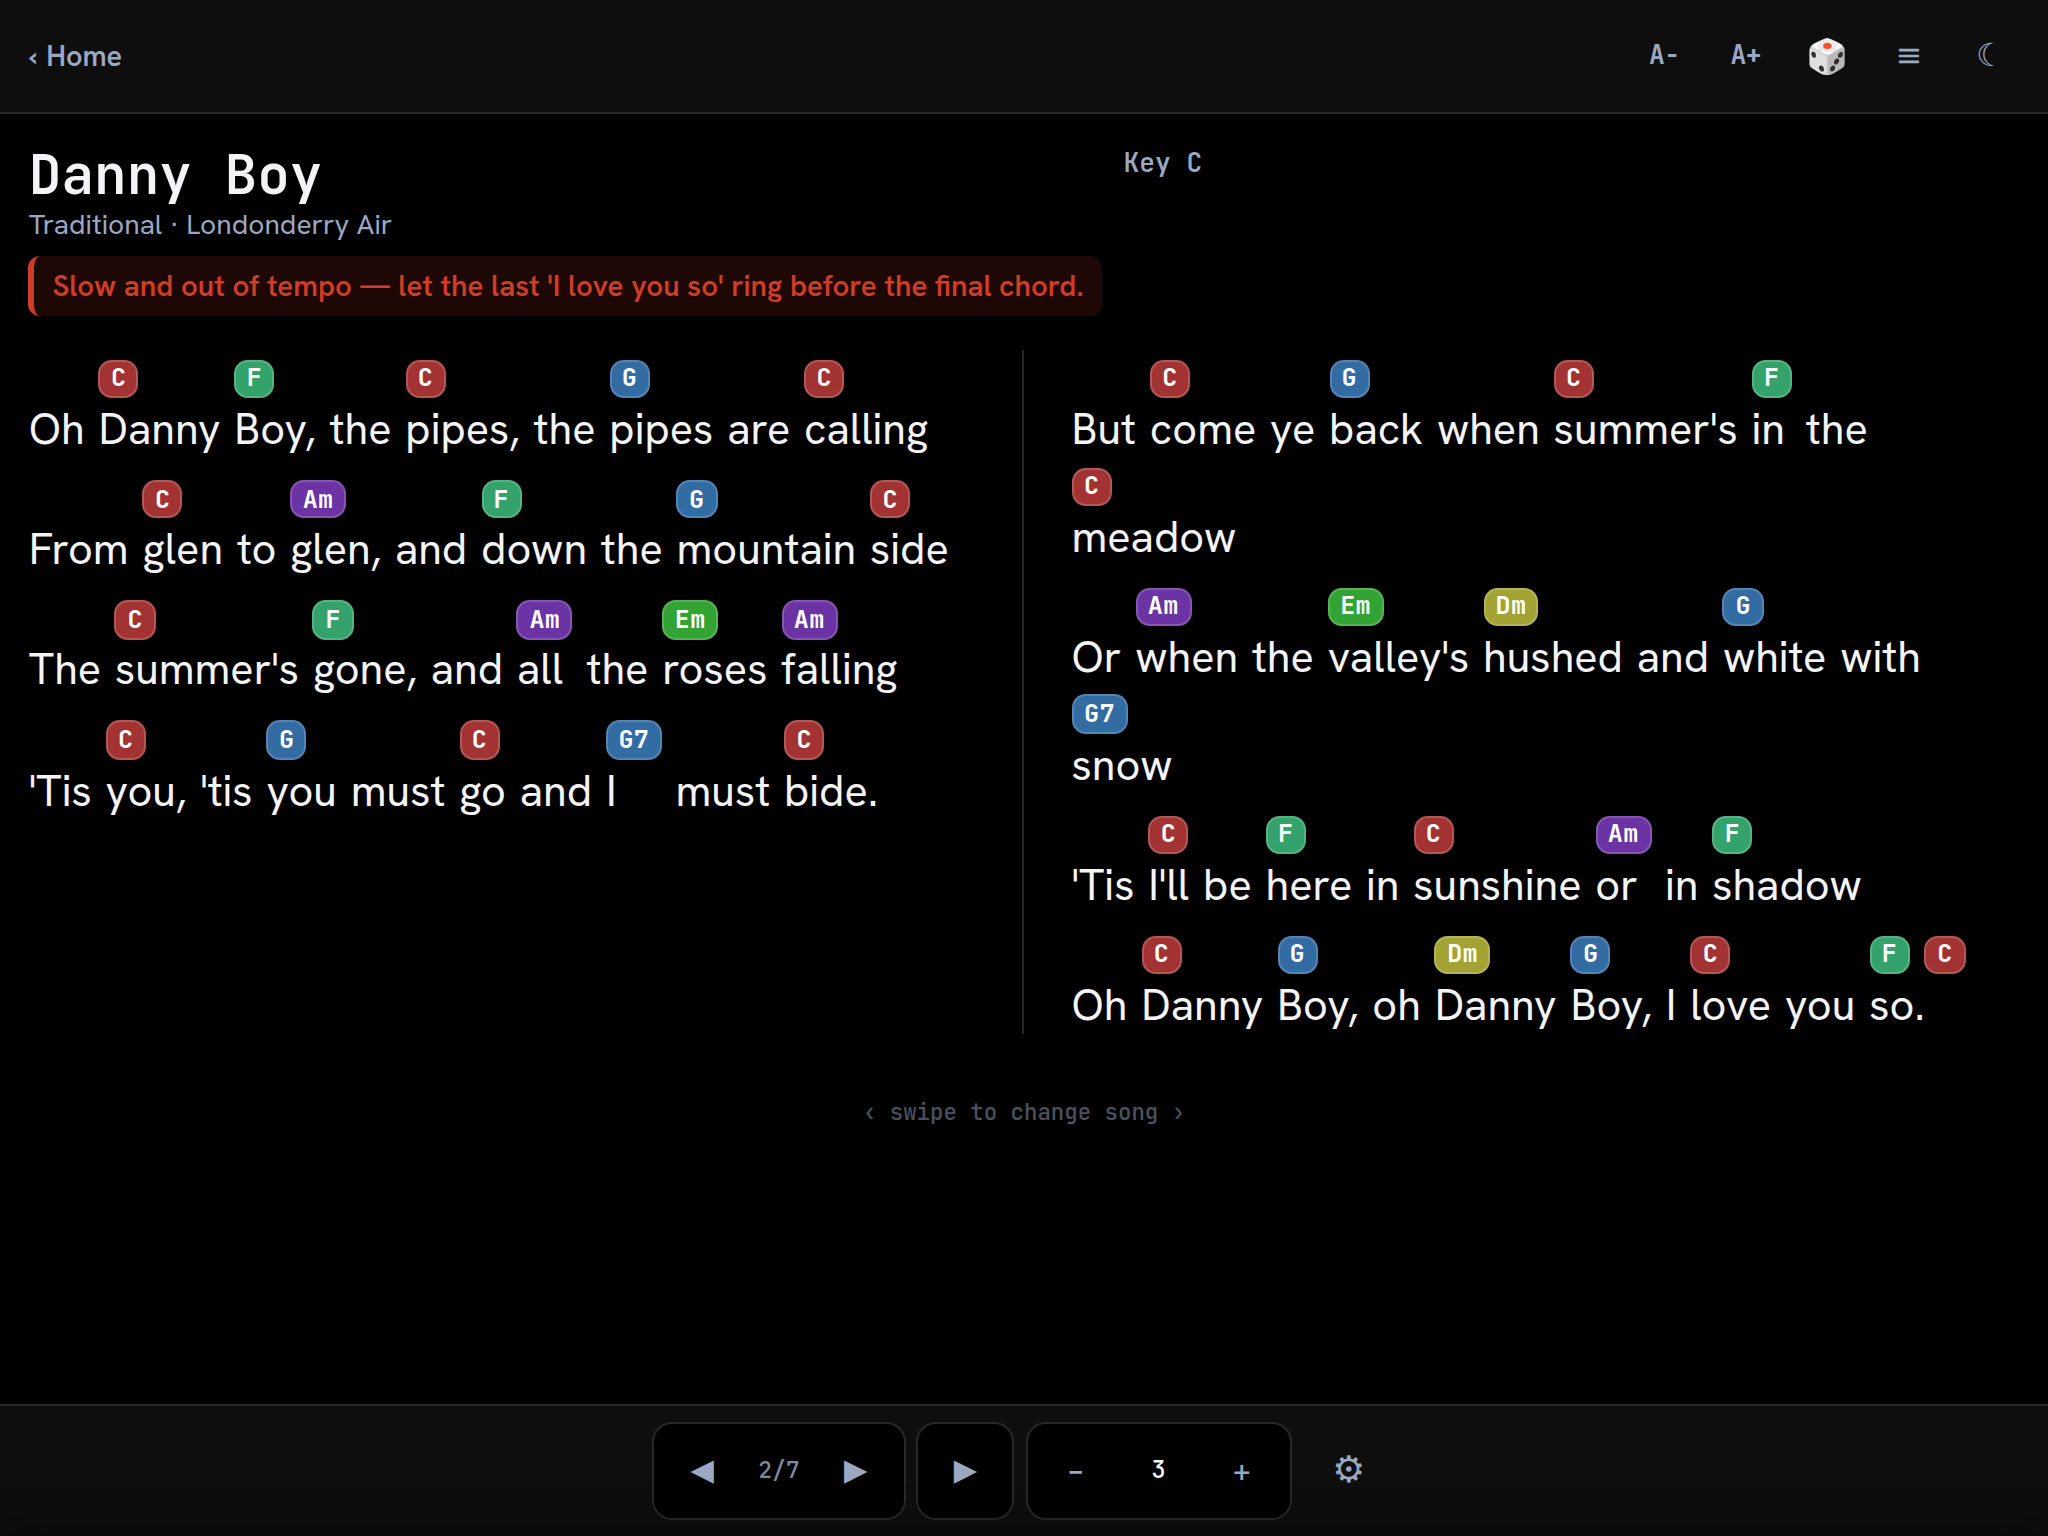
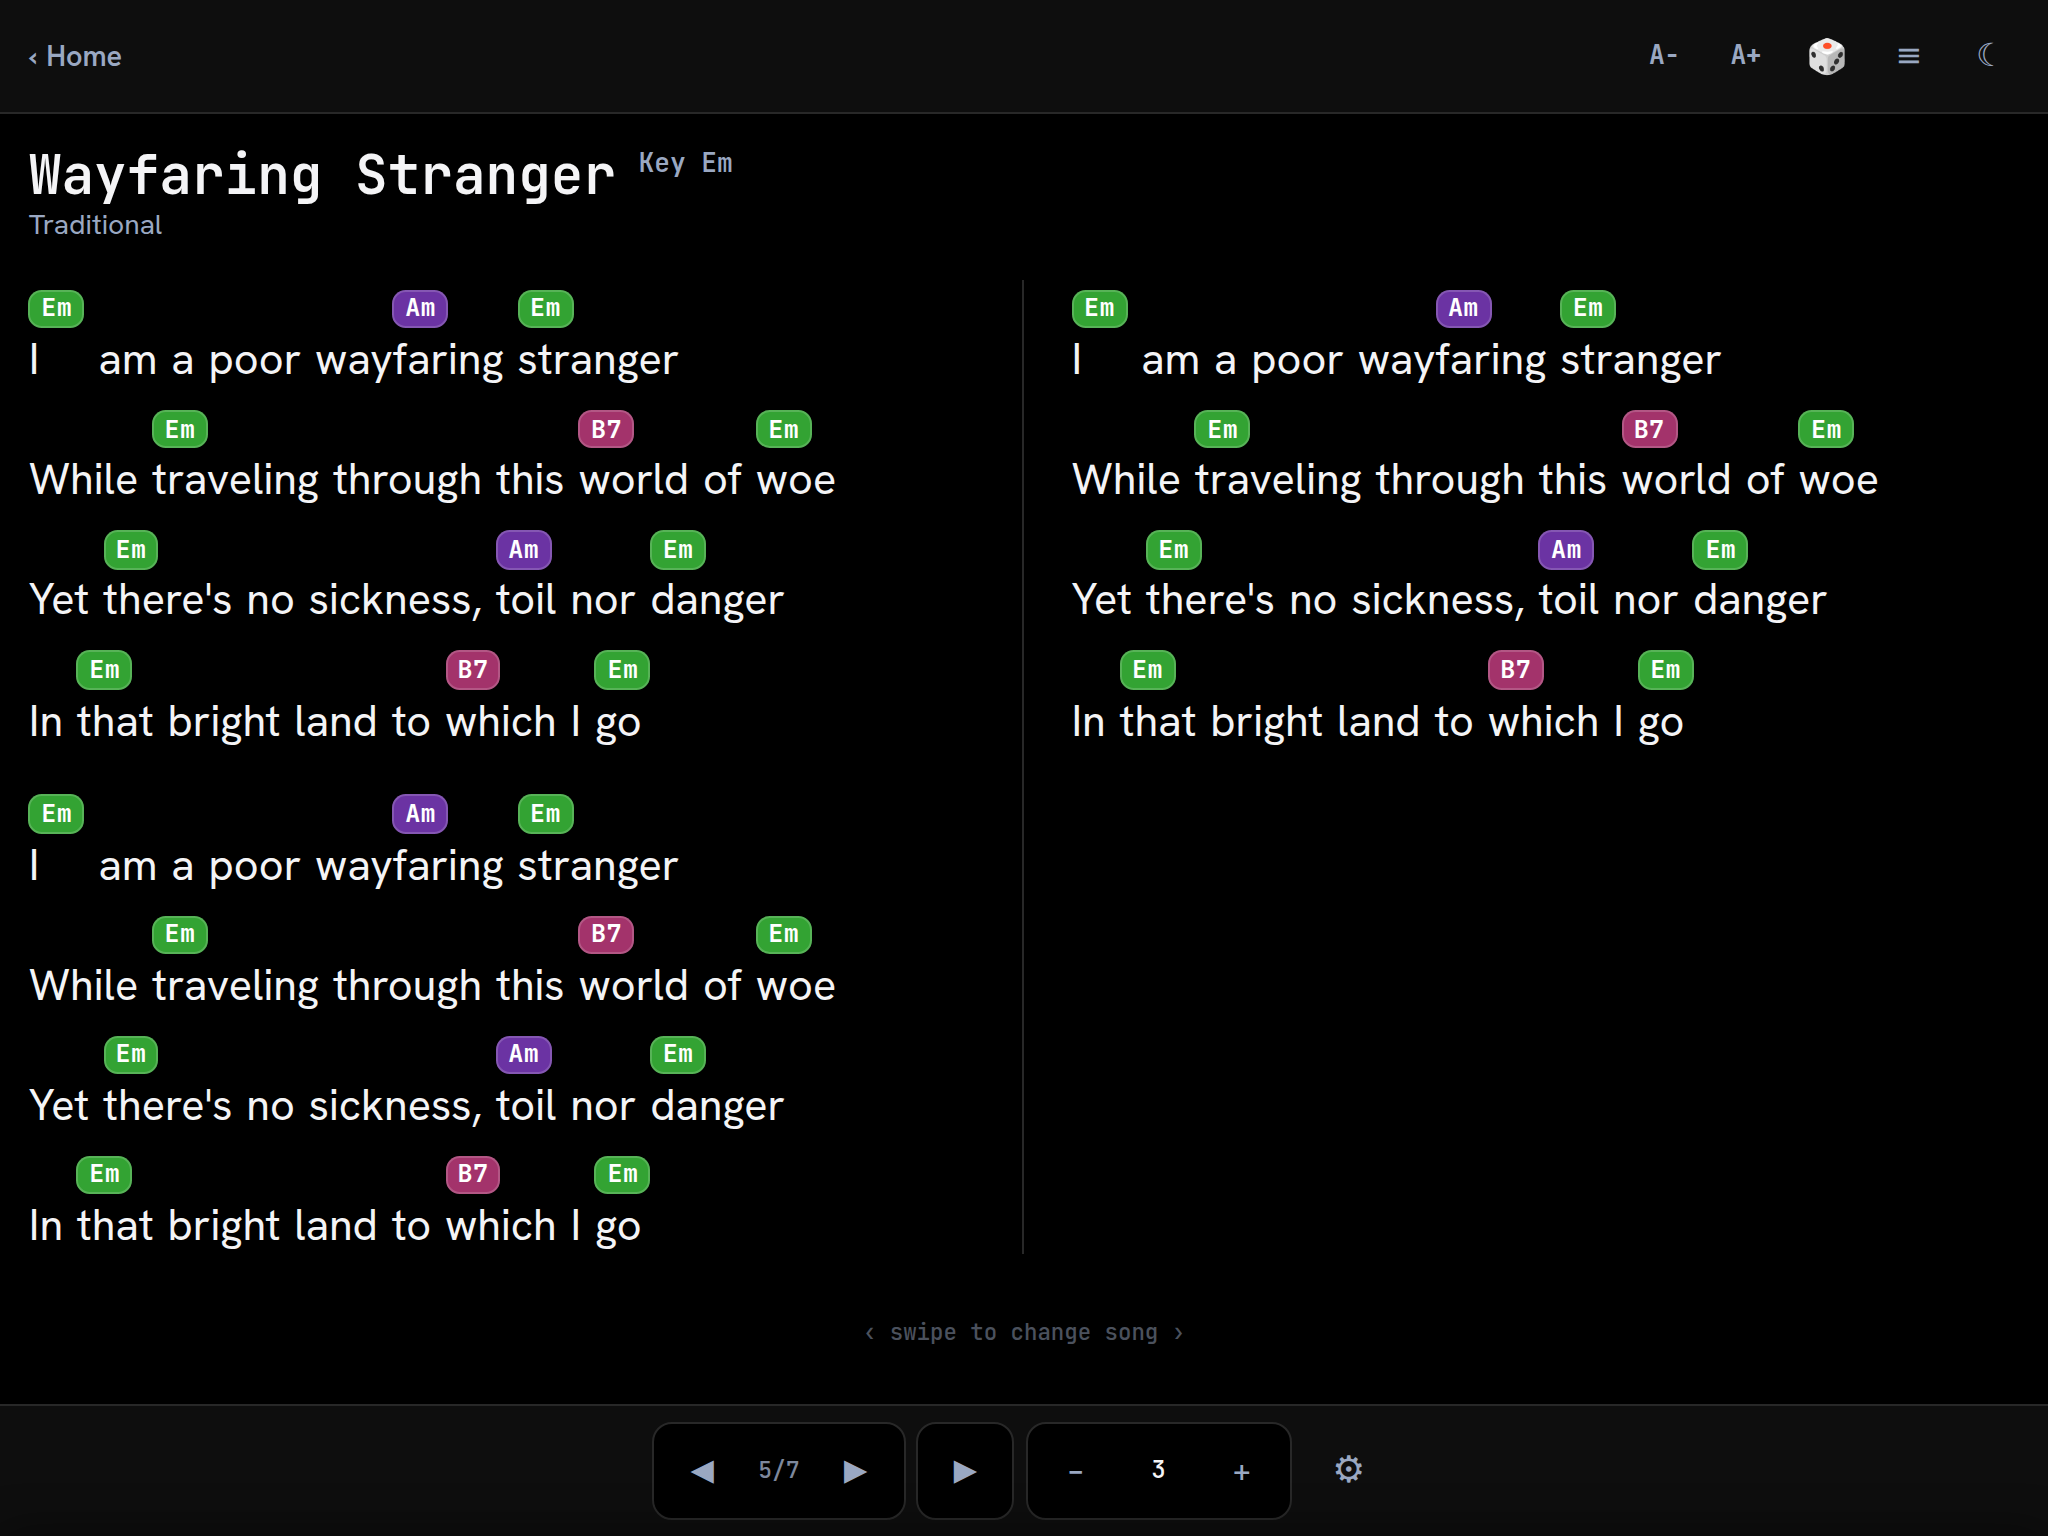
v2026.08.26.001 — retire the Danny Boy showcase song
Owner asked three times for it gone; the app carries their real catalogue
now, so the demo song is training wheels the project has outgrown.

addShowcaseSong() is replaced by a one-time retireShowcase(), which removes
the seeded song and the "★ Showcase" set from EXISTING libraries rather than
only stopping new installs from getting them — otherwise it would sit on the
owner's device forever. It keys on the reserved seed ids only, scrubs any
dangling songIds out of other setlists, and is guarded by
state.showcaseRetired so it runs once. Owner-created content is untouched,
and a backup file restores the song if it is ever wanted back.

Knock-on the seed removal caused: both capture scripts depended on that song
being the longest in the library. docs/hero-gif.js threw outright ("only 0px
of scroll runway") and docs/shots.js would have shot its two-column frame
against a song too short to fill two columns. Both now build their own tall
fixture by repeating a seed song's verses in page memory — capture-only,
never persisted, never shipped.

Verified: song and set gone, no dangling references in any setlist, the
retirement flag set, the six real seed songs and both real setlists
untouched; screenshots and hero GIF regenerate cleanly; syntax, duplicate-id
and brand==CACHE checks pass.

Claude-Session: https://claude.ai/code/session_01RFni8j63y7ynwzmNLMPMTB

diff --git a/setlist69.html b/setlist69.html
@@ -548,7 +548,7 @@
 <div class="app">
   <header>
     <button class="back" id="backBtn" style="display:none" aria-label="Back">‹ <span id="backLabel">Back</span></button>
-    <div class="brand" id="brand"><span class="dot"></span>SetList69<small>v2026.08.21.004</small></div>
+    <div class="brand" id="brand"><span class="dot"></span>SetList69<small>v2026.08.26.001</small></div>
     <div class="htitle" id="headerTitle" style="display:none"></div>
     <div class="spacer"></div>
     <button class="iconbtn" id="updateHdr" title="Update ready" aria-label="Update ready — refresh" hidden>⟳</button>
@@ -2085,22 +2085,17 @@ function migrateBanter(){
   if(dbb)for(const id of dbb.songIds){const so=state.songs.find(x=>x.id===id);if(so&&so.sub&&!so.banter){so.banter=so.sub;so.sub="";n++;}}
   state.bantersMigrated=true;return n;
 }
-/* One-time, idempotent: seed a perfectly-formatted public-domain showcase song ("Danny Boy" —
-   Frederic Weatherly's 1913 lyrics + the traditional Londonderry Air, both public domain) into the
-   library, plus a tiny "★ Showcase" set to find it. Guarded by state.showcaseAdded; reaches existing
-   libraries as well as fresh installs. Deleting the song/set sticks (the flag stops it re-adding). */
-function addShowcaseSong(){
-  if(state.showcaseAdded)return false;
-  const add=!state.songs.some(s=>s.id==="danny");
-  if(add){
-    state.songs.push({id:"danny",title:"Danny Boy",sub:"Traditional · Londonderry Air",
-      banter:"Slow and out of tempo — let the last 'I love you so' ring before the final chord.",
-      key:"C",capo:0,
-      body:"Oh [C]Danny [F]Boy, the [C]pipes, the [G]pipes are [C]calling\nFrom [C]glen to [Am]glen, and [F]down the [G]mountain [C]side\nThe [C]summer's [F]gone, and [Am]all the [Em]roses [Am]falling\n'Tis [C]you, 'tis [G]you must [C]go and [G7]I must [C]bide.\n\nBut [C]come ye [G]back when [C]summer's [F]in the [C]meadow\nOr [Am]when the [Em]valley's [Dm]hushed and [G]white with [G7]snow\n'Tis [C]I'll be [F]here in [C]sunshine [Am]or in [F]shadow\nOh [C]Danny [G]Boy, oh [Dm]Danny [G]Boy, I [C]love you [F]so.[C]"});
-    if(!state.setlists.some(sl=>sl.id==="showcase"))
-      state.setlists.push({id:"showcase",name:"★ Showcase",notes:"A perfectly formatted public-domain classic — tap a chord for its shape, or hit 123 for Nashville numbers.",setTranspose:0,songIds:["danny"]});
-  }
-  state.showcaseAdded=true;return add;
+/* One-time: retire the seeded "Danny Boy" showcase song and its "★ Showcase" set (owner asked for
+   it gone — the app has their real catalogue in it now). Only touches the reserved seed id, runs
+   once via state.showcaseRetired, and anything the owner created is untouched. A copy is always
+   recoverable from a backup file if it is ever wanted back. */
+function retireShowcase(){
+  if(state.showcaseRetired)return false;
+  const had=state.songs.some(s=>s.id==="danny");
+  state.songs=state.songs.filter(s=>s.id!=="danny");
+  state.setlists=state.setlists.filter(sl=>sl.id!=="showcase");
+  for(const sl of state.setlists)sl.songIds=(sl.songIds||[]).filter(id=>id!=="danny");
+  state.showcaseRetired=true;return had;
 }
 async function boot(){
   // Ask the browser to keep our IndexedDB from being evicted under storage pressure (design priority #1).
@@ -2119,7 +2114,7 @@ async function boot(){
   if(state.nashville!=null)nashville=state.nashville;
   if(state.chordChart!=null)chordChart=state.chordChart;
   if(!state.bantersMigrated){migrateBanter();persist();}
-  if(!state.showcaseAdded){addShowcaseSong();persist();}
+  if(!state.showcaseRetired){retireShowcase();persist();}
   applyTheme();document.getElementById("speedVal").textContent=scrollSpeed;
   document.getElementById("flatBtn").classList.toggle("on",preferFlats);
   document.getElementById("nashBtn").classList.toggle("on",nashville);

diff --git a/docs/hero-gif.js b/docs/hero-gif.js
@@ -15,9 +15,10 @@
  * frame after the first is diffed against its predecessor so unchanged pixels are
  * written as transparent. Both keep the file small.
  *
- * It deliberately picks the longest song in the library (the showcase "Danny Boy")
- * — the short seed songs fit the viewport whole, so auto-scroll has nothing to
- * scroll and the motion frames come out identical.
+ * The seed songs all fit the viewport whole, so auto-scroll would have nothing to
+ * scroll and every motion frame would come out identical. The capture therefore
+ * builds its own tall fixture by repeating a seed song's verses — in page memory
+ * only, never persisted and never shipped.
  */
 const { chromium } = require('playwright');
 const { GIFEncoder, quantize, applyPalette } = require('gifenc');
@@ -47,8 +48,17 @@ const shoot = async (page, delay) => frames.push({ buf: await page.screenshot(),
   await shoot(page, 1200);
 
   // 2. Into the set holding the longest song, so step 4 has something to scroll.
+  //    No shipped song is long enough on its own (the demo showcase song was retired), so the
+  //    capture builds its own fixture by repeating a seed song's verses. Capture-only — it lives
+  //    in the page's memory for the length of this run and is never persisted.
   const target = await page.evaluate(() => {
-    const song = [...state.songs].sort((a, b) => b.body.length - a.body.length)[0];
+    const seed = [...state.songs].sort((a, b) => b.body.length - a.body.length)[0];
+    const demo = { id: '__demo', title: seed.title, sub: seed.sub, key: seed.key,
+                   banter: 'Hold the last line — let it ring.',
+                   body: [seed.body, seed.body, seed.body].join('\n\n') };
+    state.songs.push(demo);
+    state.setlists[0].songIds.push('__demo');
+    const song = demo;
     const set = state.setlists.find(s => s.songIds.includes(song.id));
     if (!set) return null;
     curSetlist = set.id;

diff --git a/docs/shots.js b/docs/shots.js
@@ -102,7 +102,14 @@ async function fresh(browser) {
     const page = await ctx.newPage();
     await page.goto(APP);
     await page.waitForTimeout(400);
-    await page.evaluate(() => openSongStandalone('danny'));
+    await page.evaluate(() => {
+      // Two columns need a song tall enough to fill them; build one from a seed song's verses
+      // (capture-only fixture, never persisted).
+      const seed = [...state.songs].sort((a, b) => b.body.length - a.body.length)[0];
+      state.songs.push({ id: '__demo', title: seed.title, sub: seed.sub, key: seed.key,
+                         body: [seed.body, seed.body, seed.body].join('\n\n') });
+      openSongStandalone('__demo');
+    });
     await page.waitForTimeout(300);
     await page.screenshot({ path: path.join(OUT, 'twocol.png') });
     await ctx.close();

diff --git a/sw.js b/sw.js
@@ -1,4 +1,4 @@
-const CACHE = 'setlist69-v2026.08.21.004';
+const CACHE = 'setlist69-v2026.08.26.001';
 const PRECACHE = [
   './',
   './index.html',

diff --git a/CLAUDE.md b/CLAUDE.md
@@ -283,6 +283,12 @@ v2026.08.21.004  Chord-site paste import fixed. `[Verse]`/`[Chorus]` headers use
                  (`B slide C#`, `G#sA`) normalises to two real chords **at import** — a fused
                  token would transpose to nonsense (`G#sA` +2 → `A#sA`). `stripNotesBtn` also
                  drops guitar-tab rows and `Page n/m`.
+v2026.08.26.001  Showcase retired: `addShowcaseSong()` → one-time `retireShowcase()`, removing the
+                 seeded Danny Boy song and `★ Showcase` set from existing libraries (not just new
+                 installs) and scrubbing dangling `songIds`. Guarded by `state.showcaseRetired`.
+                 **§14's "showcase song" entry is now historical** — there is no shipped demo song,
+                 and the rule it existed to honour still stands: never hardcode a copyrighted song
+                 into the source, which is a public repo served publicly by GitHub Pages.
 ```
 
 A GitHub Actions workflow (`.github/workflows/check.yml`) enforces the version discipline on every push: it syntax-checks the extracted inline script and `sw.js`, **fails if the `<small>` brand version ≠ `sw.js` CACHE version**, and fails on duplicate element ids in the markup.

diff --git a/README.md b/README.md
@@ -27,7 +27,7 @@
 <br>
 
 [![CI](https://github.com/cdburgess75/SetList69/actions/workflows/check.yml/badge.svg)](https://github.com/cdburgess75/SetList69/actions/workflows/check.yml)
-[![Version](https://img.shields.io/badge/version-2026.08.21.004-informational?style=flat-square)](#versioning)
+[![Version](https://img.shields.io/badge/version-2026.08.26.001-informational?style=flat-square)](#versioning)
 [![PWA](https://img.shields.io/badge/PWA-installable-5A0FC8?style=flat-square)](#save-it-to-your-phone)
 [![Offline](https://img.shields.io/badge/offline-first-2ea043?style=flat-square)](#features)
 [![Runtime deps](https://img.shields.io/badge/runtime_dependencies-0-f5a623?style=flat-square)](#tech-stack)
